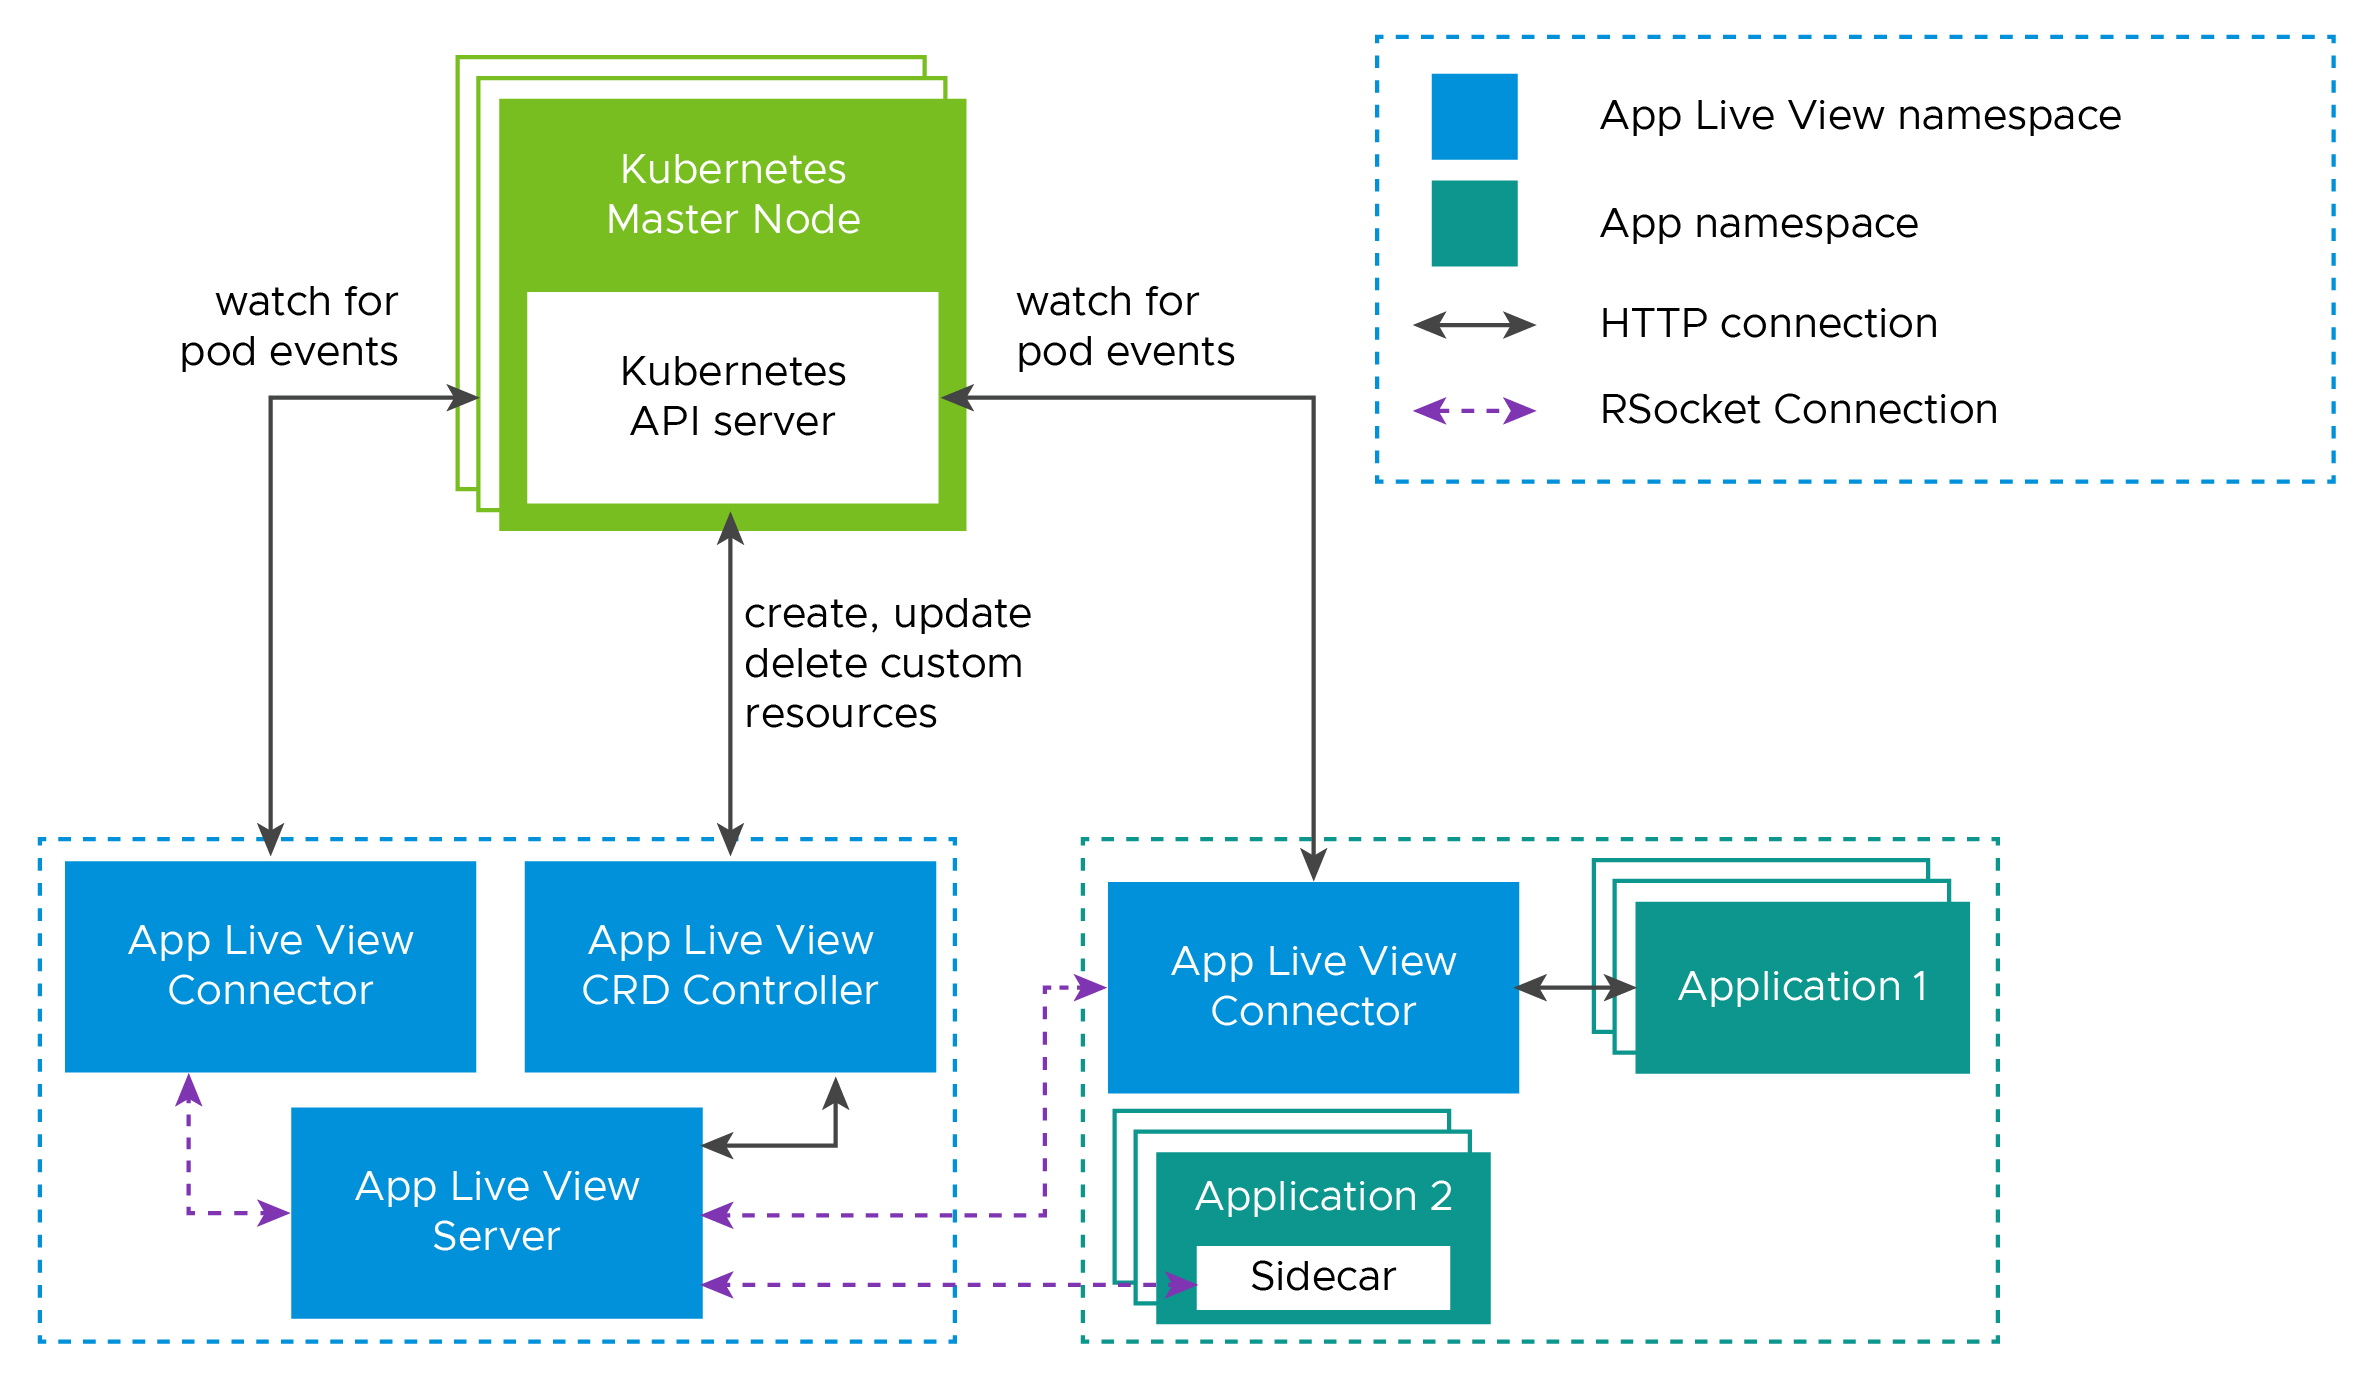
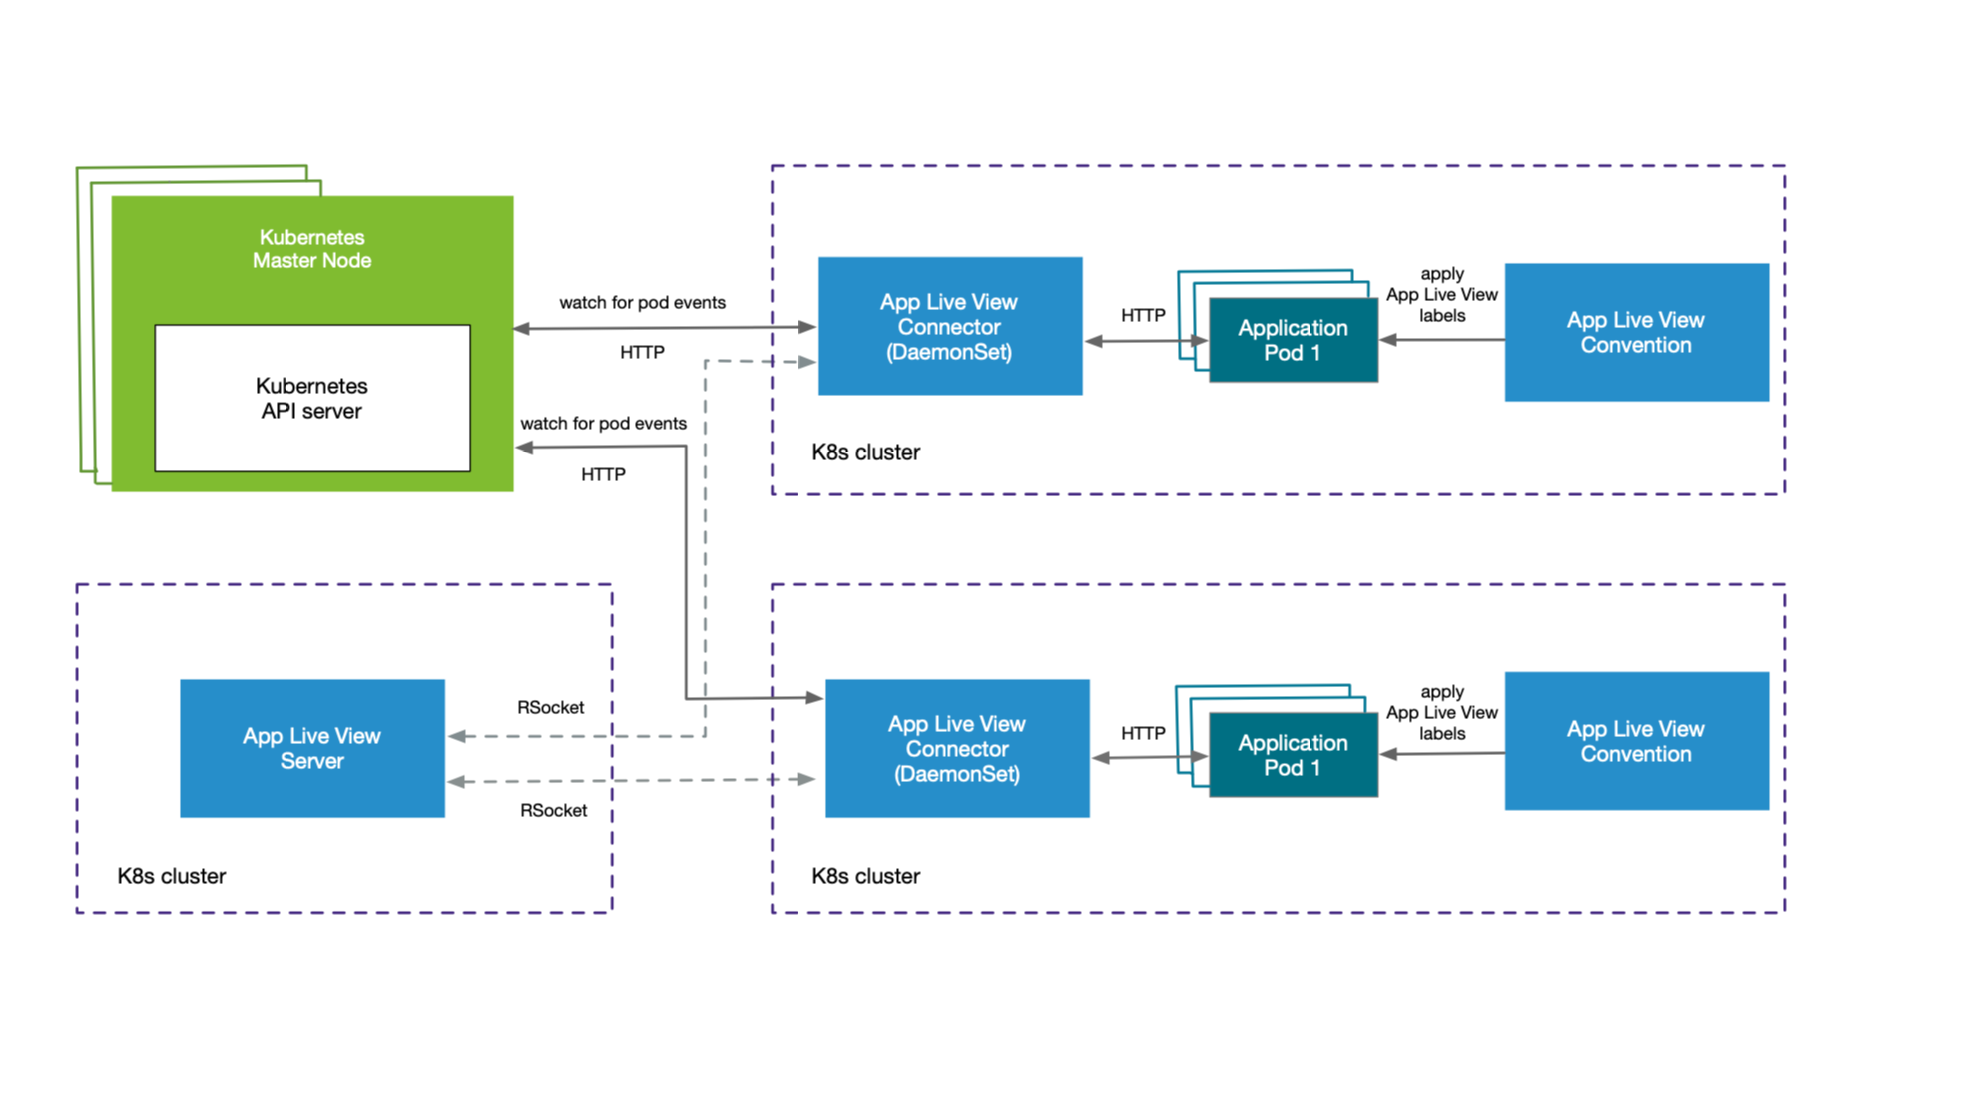
Update ALV architecture page for TAP 1.3

diff --git a/app-live-view/architecture.hbs.md b/app-live-view/architecture.hbs.md
@@ -33,21 +33,16 @@ Application Live View includes the following components as shown in the architec
 
 ## <a id="design-flow"></a> Design flow
 
-As illustrated in the architecture diagram, the **App Live View** namespace contains
-all the Application Live View components and the **Apps** namespace contains all the
-apps to be registered with Application Live View Server.
+As illustrated in the diagram, the applications run by the user are registered with Application Live View Server using
+Application Live View Connector. Once the application is registered, the Application Live View Server offers the ability
+to serve actuator data from that registered application via its REST API. Application Live View server proxies the call 
+to the connector for querying actuator endpoint information. 
 
-The apps run by the user are registered with Application Live View Server using
-Application Live View Connector.
+Application Live View Connector, which is a lean model, uses specific labels to discover apps across cluster or namespace. 
+Application Live View Connector serves as the connection between running applications and Application Live View Server. 
+Application Live View Connector communicates with the Kubernetes API server requesting events for pod creation and termination, and then filters out the events to find the pod of interest using labels. Then Application Live View Connector
+registers the filtered app instances with Application Live View server. The communication between Application Live View Server
+and Application Live View Connector happens via a bi-directional RSocket channel. The Application Live View Connector is implemented as a 
+Java/Spring Boot application and runs as a native executable (Spring Native using GraalVM). The Application Live View Connector runs as a DaemonSet by default on every node in the cluster.
 
-Application Live View Connector, which is a lean model, uses specific labels to
-discover apps across cluster or namespace.
-Application Live View Connector communicates with the Kubernetes API server
-requesting events for pod creation and termination, and then filters out the events
-to find the pod of interest using labels. Then Application Live View Connector
-registers the filtered app instances with Application Live View server.
-Application Live View server proxies the call to the connector for querying
-actuator endpoint information.
-
-The Application Live View Server fetches the actuator data of the app by proxying
-the request to Application Live View Connector by using an RSocket connection.
+Application Live View Convention identifies PodIntents for pods that are able to serve actuator data and annotates the PodSpec with application-specific labels. Those labels are used by the Application Live View Connector to identify running pods that can serve actuator data. Application Live View Convention reads the image metadata to determine the application-specific labels applied on the PodSpec. 
